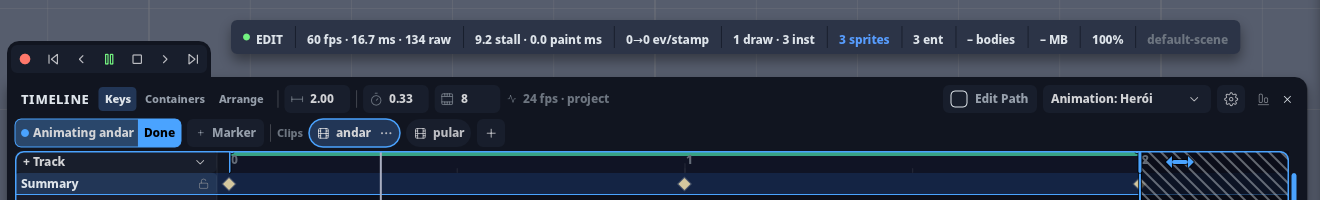
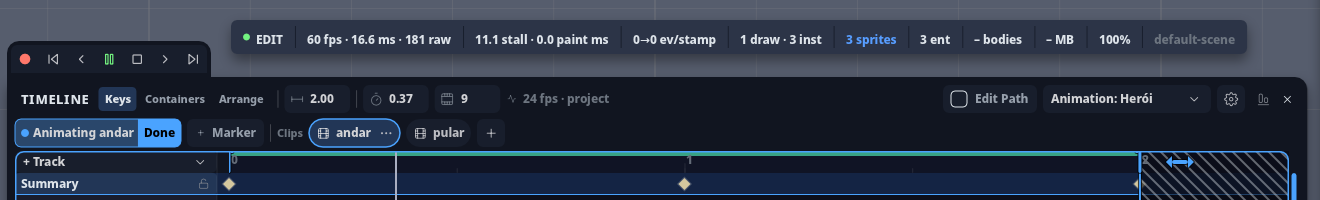
feat(timeline): a caixa dos botões da aba com as quinas de baixo pontudas
icones_em_fila_tingidos recebe os raios (↖ ↗ ↘ ↙); a aba pede (campo, campo, 0, 0) (dono 13/11).

Changed region(s): [[0.2795, 0.09, 0.9629, 0.27], [0.2795, 0.78, 0.3106, 1.0], [0.3417, 0.48, 0.3727, 0.51]]

diff --git a/crates/ph2d-editor-core/src/panel/cards_banda.rs b/crates/ph2d-editor-core/src/panel/cards_banda.rs
@@ -528,23 +528,25 @@ impl CardCtx<'_> {
         y: f32,
         traco: StrokeToken,
     ) {
-        self.icones_em_fila_tingidos(celulas, &[], (x, y), traco);
+        let r = m::FIELD_RADIUS;
+        self.icones_em_fila_tingidos(celulas, &[], (x, y), (traco, (r, r, r, r)));
     }
 
     /// [`Self::icones_em_fila_com_traco`] com a tinta de cada glifo em `cores[i]` quando `Some` (o
-    /// gravar vermelho e o tocar verde da Timeline, dono 13/11); sem tinta, a de sempre.
+    /// gravar vermelho e o tocar verde da Timeline, dono 13/11; sem tinta, a de sempre) e os raios
+    /// da caixa `(↖, ↗, ↘, ↙)` (a aba da Timeline pede as quinas de baixo pontudas).
     pub fn icones_em_fila_tingidos(
         &mut self,
         celulas: &[Icone],
         cores: &[Option<ColorToken>],
         (x, y): (f32, f32),
-        traco: StrokeToken,
+        (traco, cantos): (StrokeToken, (f32, f32, f32, f32)),
     ) {
         let caixa = Rect::new(x, y, icones_w(celulas.len()), m::FIELD_H);
-        fill_rounded_rect(
+        crate::paint::fill_rounded_rect_radii(
             self.scene,
             caixa,
-            m::FIELD_RADIUS,
+            cantos,
             self.ink.color(ColorToken::CardField),
         );
         for (i, c) in celulas.iter().enumerate() {

diff --git a/crates/ph2d-panel-timeline/src/transport_flutuante.rs b/crates/ph2d-panel-timeline/src/transport_flutuante.rs
@@ -62,7 +62,14 @@ pub(super) fn pinta(
     let ink = CardInk::of_list(theme);
     let r = Rect::new(a.x + FOLGA, a.y + FOLGA, banda::icones_w(N), m::FIELD_H);
     let (icones, cores) = celulas(snap, view);
-    cartao(ctx, ink, r).icones_em_fila_tingidos(&icones, &cores, (r.x, r.y), StrokeToken::Thick);
+    // As quinas de baixo da caixa pontudas (dono 13/11); as de cima, as do campo.
+    let f = m::FIELD_RADIUS;
+    cartao(ctx, ink, r).icones_em_fila_tingidos(
+        &icones,
+        &cores,
+        (r.x, r.y),
+        (StrokeToken::Thick, (f, f, 0.0, 0.0)),
+    );
     // O gravar é uma bola CHEIA (o glifo do ponto é pequeno demais para ler-se como «gravar»).
     let d = m::ICON_GLYPH * 0.6;
     let cx = r.x + m::FIELD_H * 0.5;
